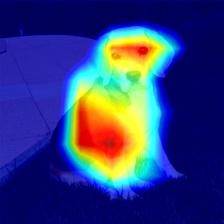
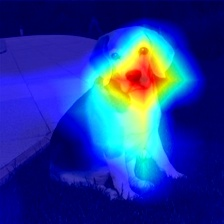
de-bug

diff --git a/Grad_CAMS.py b/Grad_CAMS.py
@@ -9,29 +9,31 @@ from keras.applications.imagenet_utils import preprocess_input, decode_predictio
 from keras.preprocessing.image import img_to_array, load_img, array_to_img
 import numpy as np
 import cv2
+import os
 # 自動增加 GPU 記憶體用量
 config = tf.ConfigProto()
 config.gpu_options.allow_growth=True
 sess = tf.Session(config=config)
 # 設定 Keras 使用的 Session
 K.set_session(sess)
-K.set_learning_phase(0)
+K.set_learning_phase(1)
+
+
+def preprocess_image(image, pre_process=True):
+    #x = img_to_array(image)
+    x = np.expand_dims(image, axis=0)
+    if pre_process:
+        x = preprocess_input(x)
+    return x
 
 class gradient_cams(object):
-    def __init__(self, model, image_path, target_layer):
+    def __init__(self, model, target_layer):
         self.model = model
-        self.image = image_path
         self.target_layer = target_layer
-
-    def preprocess_image(self,pre_process = True):
-        x = img_to_array(self.image)
-        x = np.expand_dims(x, axis=0)
-        if pre_process:
-            x = preprocess_input(x)
-        return x
      
     def grad_cam(self, image):
-        prediction = model.predict(image)
+        img = preprocess_image(image)
+        prediction = model.predict(img)
         pred_class = np.argmax(prediction[0])
         #pred_class_name = decode_predictions(prediction)[0][0][1]
         pred_output = model.output[:, pred_class]
@@ -40,13 +42,13 @@ class gradient_cams(object):
         grads = K.gradients(pred_output, last_conv_output)[0]
         #定義計算函數
         gradient_function = K.function([model.input], [last_conv_output, grads])
-        output, grads_val = gradient_function([image])
-        output, grads_val = output[0, :], grads_val[0, :, :, :]
-        # 取得所有梯度的平均值(维度降低)
+        output, grads_val = gradient_function([img])
+        output, grads_val = output[0], grads_val[0]
+        # 取得所有梯度的平均值
         weights = np.mean(grads_val, axis=(0, 1))
         gradcam = np.dot(output, weights)
         #梯度RGB化
-        gradcam = cv2.resize(gradcam, (image.shape[1], image.shape[2]), cv2.INTER_LINEAR)
+        gradcam = cv2.resize(gradcam, (224,224), cv2.INTER_LINEAR)
         gradcam = np.maximum(gradcam, 0)
         heatmap = gradcam / gradcam.max()
         # 上色
@@ -56,63 +58,74 @@ class gradient_cams(object):
 
     
     def grad_cam_plus_plus(self, image):
-        img = image /255.0
+        img = preprocess_image(image, pre_process=False)
+        img = img /255.0
+        # 取得預測類別
         predictions = model.predict(img)
         class_idx = np.argmax(predictions[0])
+        # 取得權重，供計算導數
         class_output = model.layers[-1].output
         conv_output = model.get_layer(target_layer).output
-        grads = K.gradients(class_output,conv_output)[0]
+        grads = K.gradients(class_output, conv_output)[0]
         # 一階微分
         first_derivative = K.exp(class_output)[0][class_idx] * grads
-        #二階微分
+        # 二階微分
         second_derivative = K.exp(class_output)[0][class_idx] * grads * grads
         # 三階微分
         third_derivative = K.exp(class_output)[0][class_idx] * grads * grads * grads
-        gradient_function = K.function([model.input], [conv_output, first_derivative, second_derivative, third_derivative])
+        # function 定義 輸出conv_output和grads的函數
+        gradient_function = K.function([model.input], [conv_output, first_derivative, second_derivative,
+                                                       third_derivative])
+
         conv_output, conv_first_grad, conv_second_grad, conv_third_grad = gradient_function([img])
         conv_output, conv_first_grad, conv_second_grad, conv_third_grad = conv_output[0], conv_first_grad[0], \
-                                                                      conv_second_grad[0], conv_third_grad[0]
-        weights = np.maximum(conv_first_grad, 0.0)
+                                                                          conv_second_grad[0], conv_third_grad[0]
+
+        # alpha取得
         global_sum = np.sum(conv_output.reshape((-1, conv_first_grad.shape[2])), axis=0)
+        alpha_num = conv_second_grad
         alpha_denom = conv_second_grad * 2.0 + conv_third_grad * global_sum.reshape((1, 1, conv_first_grad.shape[2]))
         alpha_denom = np.where(alpha_denom != 0.0, alpha_denom, np.ones(alpha_denom.shape))
-        alpha_num = conv_second_grad
         alphas = alpha_num / alpha_denom
+        # alpha 正規化
         alpha_normalization_constant = np.sum(np.sum(alphas, axis=0), axis=0)
-        alpha_normalization_constant_processed = np.where(alpha_normalization_constant != 0.0, alpha_normalization_constant,
-                                                      np.ones(alpha_normalization_constant.shape))
+        alpha_normalization_constant_processed = np.where(alpha_normalization_constant != 0.0,
+                                                          alpha_normalization_constant,
+                                                          np.ones(alpha_normalization_constant.shape))
         alphas /= alpha_normalization_constant_processed.reshape((1, 1, conv_first_grad.shape[2]))
-        
-        deep_linearization_weights = np.sum((weights * alphas).reshape((-1, conv_first_grad.shape[2])), axis=0)
-        
+        #  Weight 計算
+        weights = np.maximum(conv_first_grad, 0.0)
+        deep_linearization_weights = np.sum((weights * alphas).reshape((-1, conv_first_grad.shape[2])))
+        # L 計算
         grad_CAM_map = np.sum(deep_linearization_weights * conv_output, axis=2)
         grad_CAM_map = np.maximum(grad_CAM_map, 0)
         grad_CAM_map = grad_CAM_map / np.max(grad_CAM_map)
-        grad_CAM_map = cv2.resize(grad_CAM_map, (image.shape[1], image.shape[2]), cv2.INTER_LINEAR)
+        # 繪製熱力圖
+        grad_CAM_map = cv2.resize(grad_CAM_map, (224, 224), cv2.INTER_LINEAR)
         jetcam = cv2.applyColorMap(np.uint8(255 * grad_CAM_map), cv2.COLORMAP_JET)
+        # 與原影像疊加
         jetcam = (np.float32(jetcam) + image / 2)
+
         return jetcam
-    
+
+
 if __name__ == '__main__':
-    model = ResNet50(weights='imagenet', include_top=True)
+    model = ResNet50(weights='imagenet')
     image_path = 'boat.jpg'
     target_height, target_width = (224,224)
-    image = load_img(image_path, color_mode='rgb')
+    image = load_img(image_path)
     #original_height, original_width = (image.height, image.width)
     image = image.resize((target_height,target_width),3)
-    target_layer = 'res5c_branch2c'
-    vis = gradient_cams(model, image, target_layer)
+    image = img_to_array(image)
+    target_layer = 'activation_49'
+    vis = gradient_cams(model, target_layer)
 # =============================================================================
 #     grad_cam
 # =============================================================================
-    preprocess = vis.preprocess_image()
-    grad = vis.grad_cam(preprocess)
-    result = grad.reshape(target_height,target_height,3)
-    cv2.imwrite('gcam.jpg', result)
+    grad = vis.grad_cam(image)
+    cv2.imwrite(os.path.splitext(image_path)[0]+'_gcam.jpg', grad)
 # =============================================================================
 #     grad_cam++
 # =============================================================================
-    preprocess = vis.preprocess_image(pre_process=False)
-    grad_plus = vis.grad_cam_plus_plus(preprocess)
-    result = grad_plus.reshape(target_height,target_height,3)
-    cv2.imwrite('gcam++.jpg', result)
+    grad_plus = vis.grad_cam_plus_plus(image)
+    cv2.imwrite(os.path.splitext(image_path)[0]+'gcam++.jpg', grad_plus)
